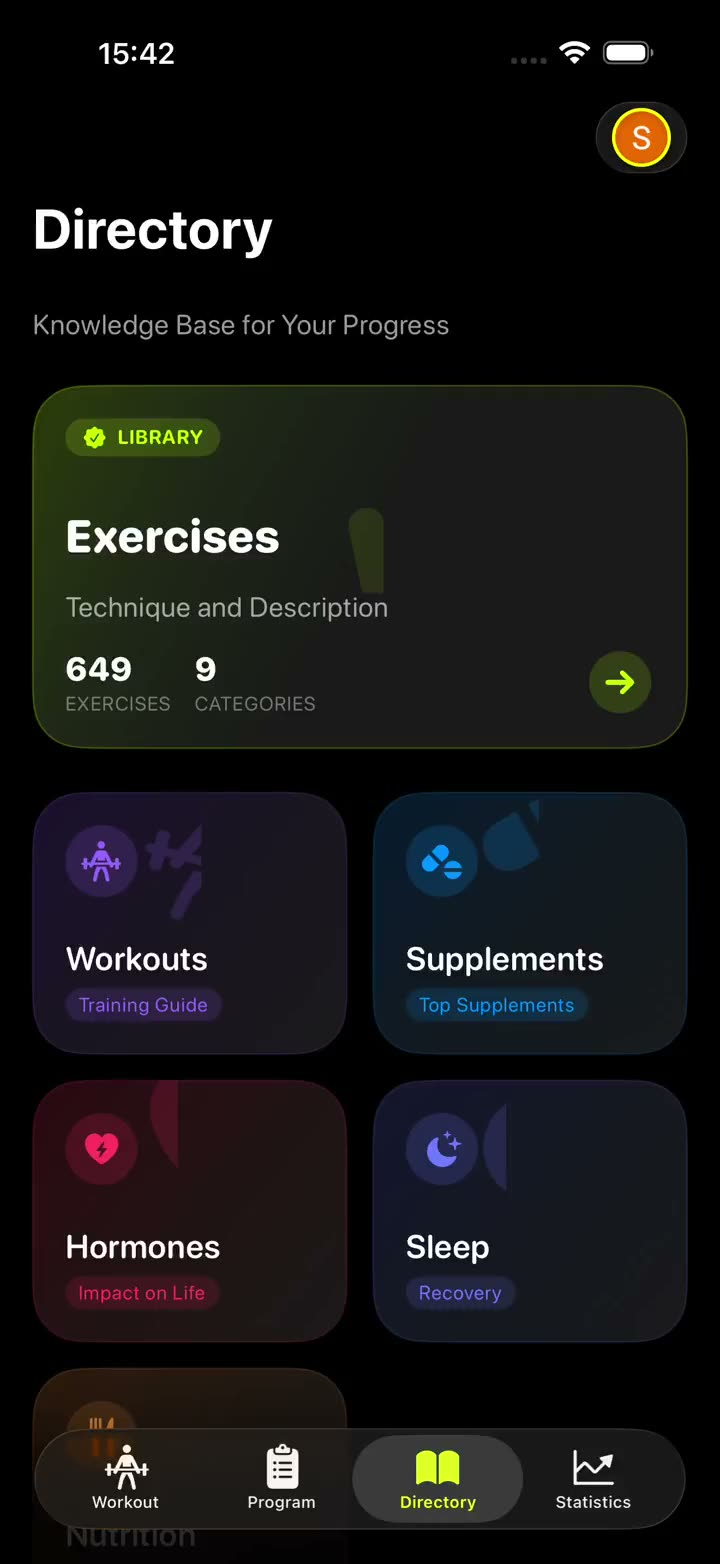
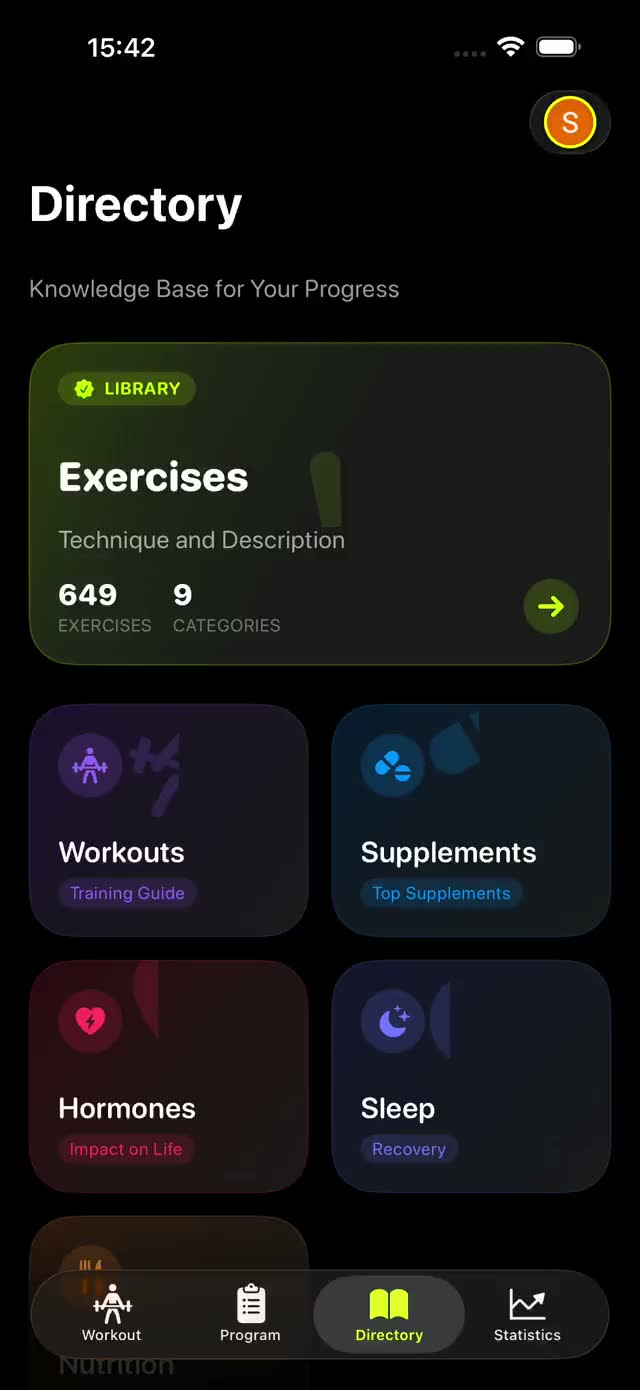
Refactor code structure for improved readability and maintainability

Changed region(s): [[0.5938, 0.9281, 0.625, 0.959], [0.1562, 0.9281, 0.1875, 0.959]]

diff --git a/src/components/ActiveShowcase.tsx b/src/components/ActiveShowcase.tsx
@@ -6,7 +6,13 @@ import type { Dict } from "@/lib/dictionaries";
 import PhoneFrame from "./PhoneFrame";
 import Reveal from "./Reveal";
 
-export default function ActiveShowcase({ dict }: { dict: Dict }) {
+export default function ActiveShowcase({
+  dict,
+  locale,
+}: {
+  dict: Dict;
+  locale: string;
+}) {
   const ref = useRef<HTMLDivElement>(null);
   const reduce = useReducedMotion();
   const { scrollYProgress } = useScroll({
@@ -25,7 +31,11 @@ export default function ActiveShowcase({ dict }: { dict: Dict }) {
       <div className="glow-volt pointer-events-none absolute -left-40 top-1/3 h-[480px] w-[480px] blur-3xl" />
       <div className="container-x grid items-center gap-14 lg:grid-cols-2">
         <motion.div style={{ y, rotate }} className="order-2 mx-auto w-[clamp(15rem,38vw,20rem)] lg:order-1">
-          <PhoneFrame src="/screens/active.png" alt={dict.active.eyebrow} glow />
+          <PhoneFrame
+            src={`/screens/active-${locale === "ru" ? "ru" : "en"}.png`}
+            alt={dict.active.eyebrow}
+            glow
+          />
         </motion.div>
 
         <div className="order-1 lg:order-2">

diff --git a/src/app/[locale]/page.tsx b/src/app/[locale]/page.tsx
@@ -106,7 +106,7 @@ export default async function Home({
         <Reframe dict={dict} />
         <Loop dict={dict} />
         <Features dict={dict} />
-        <ActiveShowcase dict={dict} />
+        <ActiveShowcase dict={dict} locale={locale} />
         <AICoach dict={dict} />
         <Purpose dict={dict} />
         <Library dict={dict} locale={locale} />